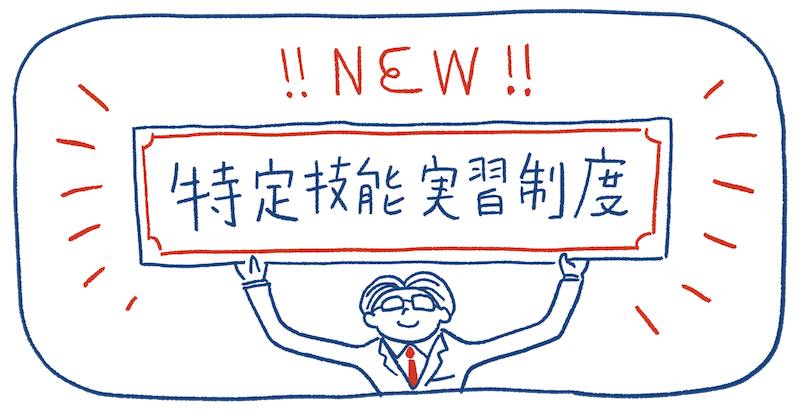
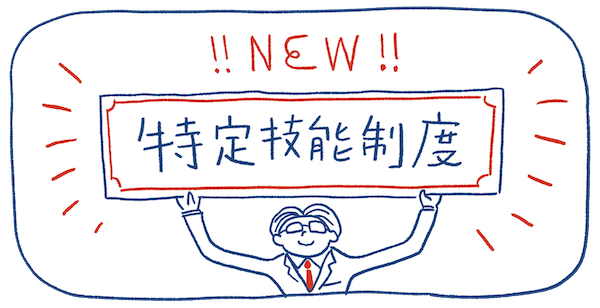
fix image and mission text

diff --git a/mission.html b/mission.html
@@ -155,16 +155,8 @@
                 <div class="text-area">
                     <p>
                         <span>特定技能ビザとは、日本の産業界における深刻な人手不足を解消するため、2019年の４月から新たに導入される在留資格で、正式名称を在留資格「特定技能」という就労ビザの一種です。</span>
-                        <br />
+                        <br /><br />
                         <span>この新しい在留資格を創設する第一義的な目的は日本の「人手不足の解消」にあります。</span>
-                    </p>
-                    <p>
-                        <span>整備された点 細かく書く</span>
-                        <br />
-                        <span>（仲介業者(送り出し機関)や、監理団体を通さなくとも、受け入れ機関が直接採用活動を行い、実習生を採用する事も可能となったため不必要に高額な手数料を支払う必要もなくなります。）とか</span>
-                        <a>
-                            特定技能ビザについて法務省サイトを見る
-                        </a>
                     </p>
                 </div>
                 <div class="link-area">
